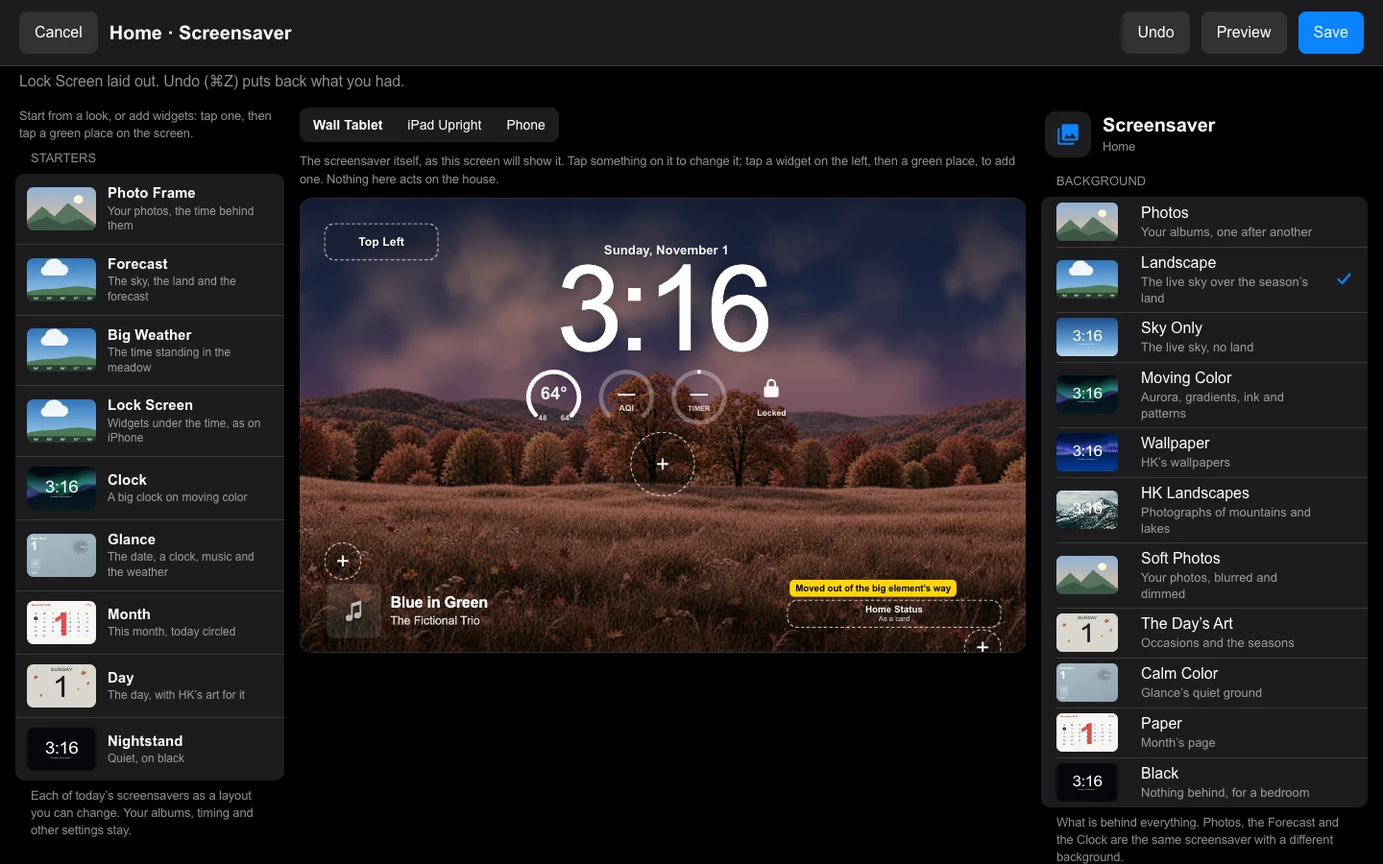
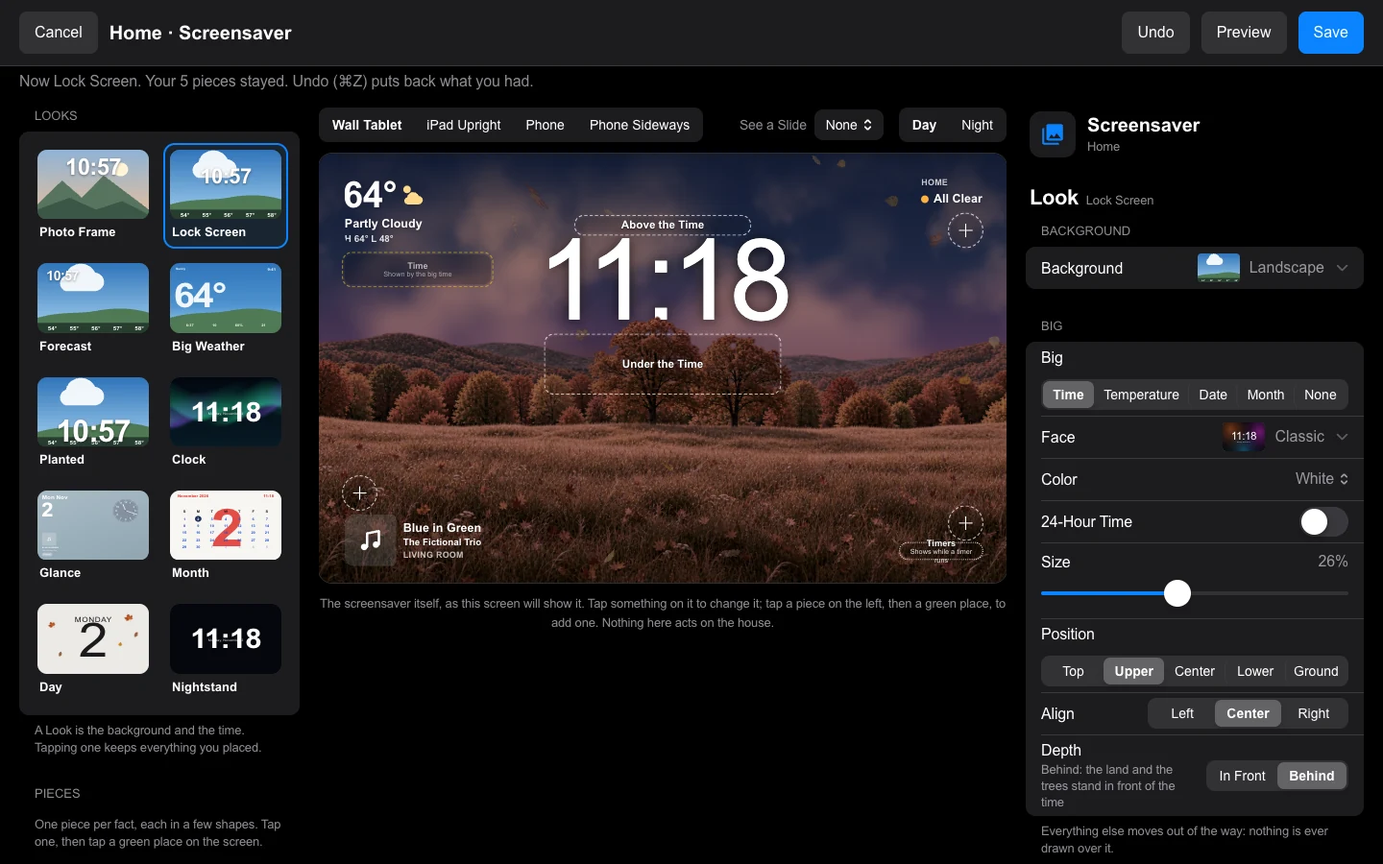
Phase 13, phase 6: every Look under every slide at four sizes in WebKit, every piece at least once; the guide's Screensaver page and its shots for the new editor; both changelogs -- and on the way: the Big forecast as a slide is Big Weather (over a laid-out clock too), its corner under Big Weather's

diff --git a/web/hk/modules/hk-saver.js b/web/hk/modules/hk-saver.js
@@ -1244,7 +1244,14 @@
     '.scn .scs{position:absolute;top:var(--m);display:flex;flex-direction:column;gap:var(--g)}',
     '.scn .scs.tl{left:var(--m);align-items:flex-start}.scn .scs.tr{right:var(--m);align-items:flex-end}',
     '.scn .scs > *{position:relative}',
+    // (Big Weather as a slide tells the weather and the time on its own top line, on its 7.3-unit margin: what the corner
+    // adds stands under them, on the same margin, where its own screen puts Home Status)
+    ':host([fcbig][fcslide]:not([pane])) .scn .scs{top:13.1vmin}',
+    ':host([fcbig][fcslide]:not([pane])) .scn .scs.tl{left:7.3vmin}:host([fcbig][fcslide]:not([pane])) .scn .scs.tr{right:7.3vmin}',
     ':host([scorner]) .info > *:not([muonly]){opacity:0!important;transition:opacity ' + CROSSFADE_MS + 'ms ease}',
+    // (with a layout the slide corner tells the time: the old corner clock kept for under the music never comes back
+    // over it -- the forecast over a clock drew both, 2026-11-02)
+    ':host([lay][scorner]) .info > [muonly]{display:none!important}',
     // THE LAYOUT (2026-11-01, the Screensaver editor's): its big element and widgets in .lay, under the corner cards;
     // the cards placed where its plan puts them (layoutDraw), whatever the Show's own rules said -- shown or not by
     // the plan alone ([lyhide]), and gone with the rest under a slide that covers them
@@ -2826,7 +2833,9 @@
   // clock (Behind the Clock: Forecast keeps the forecast's own details)
   var bigCtl = null, bigRun = 0, bigFor = '';
   // (with a layout too, where the forecast is a slide: layoutCfg made it Classic where the forecast is the background)
-  function bigWanted() { return !!(cfg && cfg.forecast_layout === 'big' && cfg.show !== 'clock' && !FACE_SHOWS[cfg.show]); }
+  // (a layout: the forecast as a slide over any Look takes the Slides section's Classic / Big -- layoutCfg made it
+  // Classic where the forecast is the background)
+  function bigWanted() { return !!(cfg && cfg.forecast_layout === 'big' && (cfg.layout || (cfg.show !== 'clock' && !FACE_SHOWS[cfg.show]))); }
   function bigWeather() {
     if (!root || !host) return;
     var want = bigWanted();
@@ -4172,6 +4181,7 @@
     if (!on || !root || !host || mode === 'forecast') return false;
     var gen = mode === 'clock';
     buildForecast();
+    bigWeather();
     if (exOutT) { clearTimeout(exOutT); exOutT = null; }
     host.removeAttribute('fcout');
     fcShowing = true;

diff --git a/web/hk/modules/hk-saverwidgets.js b/web/hk/modules/hk-saverwidgets.js
@@ -169,6 +169,10 @@
     '.hksw .cd.ti{padding:calc(var(--u) * .4)}',
     '.hksw .cd.ti .ct + div{margin-top:calc(var(--u) * .6)}',
     '.hksw .cd > div{overflow:hidden;text-overflow:ellipsis}',
+    // (a big number never needs an ellipsis: its row draws the round figures' overshoot below the baseline, which a
+    // line-height of 1 leaves outside the box -- the owner: "the temp is being clipped")
+    '.hksw .cd > .big,.hksw .cd > .cw{overflow:visible}',
+    '.hksw.k-card.b-none{overflow:visible}',
     '.hksw .cd .big{font-size:calc(var(--u) * 8.5);font-weight:700;line-height:1;letter-spacing:-.01em;margin-left:-.05em}',
     // (the Time's card: large figures, thin as the lock screen's time, and its date under them; at 150 % the old corner
     // clock's 150 px on an 800 px tablet -- the size a screen with no saved layout gets, hk-saver.js autoLayout)

diff --git a/tools/headless/saver_shows_check.py b/tools/headless/saver_shows_check.py
@@ -142,7 +142,44 @@ SHOWS = {
                              row=['vacuum.circular', 'package.circular', 'notify.circular', 'climate.circular', 'upnext.rectangular'],
                              tl=['climate.inline', 'doors.inline'], bl=['playin.inline'], bottom=[],
                              line=['who.inline'])}, 'lay-pieces'),
+    # ...wave C: one entity picked (the suggested default, none being picked here), Any Sensor on a picked entity, the photo's title
+    'saver-lay-glance-c': ({'show': 'photos', 'photo_titles': True, 'layout': _pieces({'kind': 'time', 'size': 22, 'pos': 'top'},
+                            line=['title.inline'], row=['alarm.circular', 'trash.circular', 'pollen.circular', 'travel.circular',
+                                                        'appliance.rectangular', 'sensor.circular?entity=lock.back_door'],
+                            tl=['price.inline', 'travel.inline'], tr=['leak.inline', 'sensor.inline?entity=lock.front_door'],
+                            bl=['appliance.inline', 'alarm.inline'], br=['leak.card'])}, 'lay-pieces'),
 }
+
+
+# EVERY LOOK, EVERY SLIDE, AT EVERY SIZE (phase 13, phase 6; the plan's "Done": saver_shows_check over every Look x slide x
+# three sizes, phones not skipped): the editor's own Looks (hk-saver-editor.js LOOKS, applyLook + lookLayout -- so what is
+# checked is what the owner picks), each with every slide on. One screen a Look steps through its slides with the editor's
+# See a Slide (hkSaver.previewSlide); a second has the Forecast's Big layout, for the Forecast, Big slide
+def look_shows():
+    import subprocess
+    jsc = Path('/System/Library/Frameworks/JavaScriptCore.framework/Versions/A/Helpers/jsc')
+    if not jsc.exists():
+        return {}
+    pre = ("var window = this; var HTMLElement = function () {}; var customElements = { get: function () { return null; }, define: function () {} };\n"
+           f"load({json.dumps(str(ROOT / 'web/hk/modules/hk-saverlayout.js'))});\n"
+           f"load({json.dumps(str(ROOT / 'web/hk/panels/hk-saver-editor.js'))});\n"
+           "var E = window.hkSaverEditor;\n"
+           "print(JSON.stringify(E.LOOKS.map(function (look) { var o = { show: 'photos', layout: E.lookLayout(look) }; E.applyLook(o, look, false); return [look.id, o]; })));\n")
+    with tempfile.NamedTemporaryFile('w', suffix='.js', delete=False) as f:
+        f.write(pre)
+    try:
+        looks = json.loads(subprocess.run([str(jsc), f.name], capture_output=True, text=True, check=True, timeout=30).stdout)
+    finally:
+        os.unlink(f.name)
+    out = {}
+    for lid, o in looks:
+        slides = dict(o, extra_music=True, weather_slide=True, energy_slide=True, extra_forecast=True)
+        out[f'saver-look-{lid}'] = (slides, 'look-slides')
+        out[f'saver-look-{lid}-fb'] = (dict(slides, forecast_layout='big'), 'look-fb')
+    return out
+
+
+SHOWS.update(look_shows())
 
 
 async def photos_for(server, cookie, screens):
@@ -185,7 +222,8 @@ async def main():
     with tempfile.TemporaryDirectory() as td:
         app, cookie = await gallery.build(Path(td), real_model=True)
         async with TestServer(app) as server:
-            await photos_for(server, cookie, ('saver-timebehind', 'saver-clockphotos', 'saver-clocksoft', 'saver-lay-slides', 'saver-lay-tb'))
+            await photos_for(server, cookie, ('saver-timebehind', 'saver-clockphotos', 'saver-clocksoft', 'saver-lay-slides', 'saver-lay-tb')
+                             + tuple(k for k in SHOWS if k.startswith('saver-look-photo')))
             if args.shots:
                 args.shots.mkdir(parents=True, exist_ok=True)
             proc = await asyncio.create_subprocess_exec(args.node, str(Path(__file__).with_suffix('.cjs')), stdin=asyncio.subprocess.PIPE,

diff --git a/tools/headless/gallery.py b/tools/headless/gallery.py
@@ -292,6 +292,10 @@ await pause(12000);"""
 SAVER_EDITOR_TIME = SAVER_EDITOR + """
 ed.shadowRoot.querySelector('.ov .big').click();
 await pause(2500);"""
+# ...and a piece tapped (phase 13): its page, its shapes drawn, its Size, Backdrop, Color and Show
+SAVER_EDITOR_PIECE = SAVER_EDITOR + """
+[...ed.shadowRoot.querySelectorAll('.ov .w')].find((w) => /weather|Weather/.test(w.getAttribute('aria-label') || '')).click();
+await pause(2500);"""
 
 # name -> (path, viewport, signed in, script to run before the shot)
 # The path is one of Mantel's own pages: a screen (SCREEN's, or GRID_SCREEN's, which lays Home out as a Home Grid),
@@ -319,6 +323,7 @@ SHOTS = {
                              script(GRID_EDITOR + GRID_PREVIEW + GRID_BACKGROUND)),
     "screensaver-editor": (f"/settings#/screens/{SCREEN}/screensaver/editor", DESKTOP, True, script(SAVER_EDITOR)),
     "screensaver-editor-time": (f"/settings#/screens/{SCREEN}/screensaver/editor", DESKTOP, True, script(SAVER_EDITOR_TIME)),
+    "screensaver-editor-piece": (f"/settings#/screens/{SCREEN}/screensaver/editor", DESKTOP, True, script(SAVER_EDITOR_PIECE)),
     "settings-me": ("/settings#/mantel/me", DESKTOP, True, None),
     "settings-people": ("/settings#/mantel/people", DESKTOP, True, None),
     "settings-wall-tablet": ("/settings#/house/tablets/kitchen", DESKTOP, True, SCROLL_TO_SETUP),

diff --git a/tests/test_hk_core_saver_layout.py b/tests/test_hk_core_saver_layout.py
@@ -251,3 +251,14 @@ def test_the_editors_looks_and_backgrounds(tmp_path):
     planted = {t["id"]: t for t in out["taps"]}["planted"]
     assert planted["face"] == "planted" and planted["show"] == "forecast"
     assert {t["id"]: t for t in out["taps"]}["bigweather"]["big"]["kind"] == "temp"
+
+
+def test_every_piece_is_in_the_webkit_check():
+    """The plan's rule 7 (docs/phase13/SCREENSAVER-UNIFIED.md): every piece appears in saver_shows_check at least once --
+    in a layout of its own screens, or a Look's (hk-saver-editor.js LOOKS), or as a first layout's widget."""
+    import re
+    check = (ROOT / "tools/headless/saver_shows_check.py").read_text()
+    src = check + (ROOT / "web/hk/panels/hk-saver-editor.js").read_text()
+    seen = set(re.findall(r"'([a-z]+)\.(?:inline|circular|rectangular|card|band)", src))
+    seen |= {p for v1, (p, _, _) in SL.V1.items() if re.search(r"'%s'" % v1, check)}
+    assert not set(SL.PIECES) - seen, sorted(set(SL.PIECES) - seen)

diff --git a/docs/guide/Screensaver.md b/docs/guide/Screensaver.md
@@ -4,62 +4,58 @@ The screensaver on a wall tablet is HK Frontend's, and its photos, timing and th
 
 ## Edit Screensaver
 
-![The Screensaver editor: starters on the left, the screensaver in the middle, its settings on the right](../images/screensaver-editor.webp)
+![The Screensaver editor: Looks and pieces on the left, the screensaver in the middle, Look, Info, Slides and Timing on the right](../images/screensaver-editor.webp)
 
-**Edit Screensaver** lays the screensaver out on the screen itself, as the [Home Grid](Home-Grid.md) editor does for the Home page. Owners and Admins can use it, on a computer or an iPad. The editor needs a wide window for its three panes; on a narrow one it says so and offers **Open Anyway**.
+**Edit Screensaver** lays the screensaver out on the screen itself, as the [Home Grid](Home-Grid.md) editor does for the Home page. Owners and Admins can use it, on a computer or an iPad. The editor needs a wide window for its three panes; on a narrow one it says so and offers **Open Anyway**. The **Clock Style** pages in Settings open it too.
 
-Open **Mantel Settings → Screens → your screen → Screensaver Options → Edit Screensaver**. For every screen at once, use **All Screens → Screensaver → Edit Screensaver**. A screen that uses the settings for All Screens gets a screensaver of its own when you save, starting from All Screens'.
+The top bar has **Cancel**, **Undo**, **Preview** and **Save**. On the left are the **Looks** and the **Pieces**. In the middle is the screensaver itself, drawn by the same code the tablet draws with. On the right are the settings for whatever you have tapped. Nothing you do here acts on the house.
 
-The top bar has **Cancel**, **Undo**, **Preview** and **Save**. On the left are the **Starters** and the widgets. In the middle is the screensaver itself, drawn the way the tablet will draw it. On the right are the settings for whatever you have tapped. Nothing you do here acts on the house.
+A screensaver is a **Look** (a background and the time) and the **Info** around it: the pieces you place. Every screen draws this way, including one that has never saved anything: its corners are pieces too.
 
-### Start from a starter
+### Looks
 
-A screensaver is a background, one big element, and widgets around it. The **Starters** are today's screensavers, each as a layout you can change: **Photo Frame**, **Forecast**, **Big Weather**, **Lock Screen**, **Clock**, **Glance**, **Month**, **Day** and **Nightstand**. Tap one and it sets the background and lays everything out. **Undo** puts back what you had. Your albums, timing and other settings stay as they were.
+The Looks are **Photo Frame**, **Lock Screen**, **Forecast**, **Big Weather**, **Planted**, **Clock**, **Glance**, **Month**, **Day** and **Nightstand**, each shown as its picture. Tapping a Look changes the Look only: the background, the face, and how large the time is and where it stands. What you placed stays. A piece the new Look has no place for (Month has no row and no line) waits: it stays in your layout, the screen leaves it out, and the Info list marks it "Waits: Month has no row". Tap the Look you are on to open its page; **Start Over from** that Look, at its foot, puts back the Look's own pieces in their places.
 
-### The background
+### The four sections
 
-With nothing tapped, the right side shows the **Screensaver** settings. **Background** is what is behind everything: **Photos**, **Landscape** (the live sky over the season's land), **Sky Only**, **Moving Color**, **Wallpaper**, **HK Landscapes**, **Soft Photos**, **The Day's Art**, **Calm Color**, **Paper** or **Black**. Each has the few options that go with it, such as a Moving Color pattern or how much to darken photos. Under **Slides** are the screens that come between now and then: the forecast between photos, music full screen, Home Energy and Weather. While a slide shows, the layout steps aside and the slide has the screensaver's usual corners: the time, the date and the weather at the top left and Home Status at the top right (Big Weather and Home Energy tell the time themselves). The layout comes back with the next photo.
+With nothing tapped, the right side has four sections, always in this order.
 
-### The big element
+- **Look:** the **Background** (**Photos**, **Landscape**, **Sky Only**, **Moving Color**, **Wallpaper**, **HK Landscapes**, **Soft Photos**, **The Day's Art**, **Calm Color**, **Paper** or **Black**) and its own options, such as how much to darken photos or a Moving Color pattern and its **Motion**. Then the **Big** element (**Time**, **Temperature**, **Date**, **Month** or **None**), its **Face**, **Color**, **24-Hour Time**, **Size**, **Position** and **Align**. **Depth** is **In Front** or **Behind**: on photos the subject stands in front of the time, as on the iPhone's Lock Screen, with any face; on the Landscape the hills do. Where the background can't put anything in front, Depth says why instead. The **Planted** face (solid figures standing in the meadow) is on the Landscape. Over busy backgrounds, **Legibility** adds a soft shadow and an outline.
+- **Info:** what is placed, a list with each piece's picture, shape and place; tap one to open it. **Ink** is **Auto**, **White** or **Black**: one ink for every piece on the screen, never some white and some black; Auto picks it from what is behind them. **Color Accents** adds a little color where it means something: rings, glyphs and status dots. **The Row** has one **Size** for every piece in it (60 to 200 %) and where it goes: **Under the Big Element**, or **Along the Bottom**, which keeps the middle of a photo, where faces usually are, clear. **Upright Screens** is **Same as Sideways** or **Its Own**.
+- **Slides:** the screens that come now and then over the screensaver, each on or off: the forecast among the photos (**Classic** or **Big**), **Music Full Screen**, **Weather** and **Home Energy**, and **How Often**. Each says what its corner adds (the time, the date and Home Status, in the Look's own face and color) and has a **See It** button.
+- **Timing:** **Starts After, Night Mode and More** opens the Screensaver page.
 
-Tap the time, or whatever is large on the screen. **Shows** is **Time**, **Temperature**, **Date**, **Month** or **None**.
+At the foot, **Reset…** puts the screensaver back to how it looked before you opened the editor.
 
-![The big element tapped: its Face, Color, Size and Position on the right](../images/screensaver-editor-time.webp)
+### Pieces
 
-- **The Time** has a **Face**, its **Color**, and **24-Hour Time**. The **Today** face also draws the weather and, while something plays, the song under the time; **What's Playing** turns that line off (also under **Clock Style** in Settings).
-- **Size**, **Position** and **Align** say how large it is and where it stands.
-- **Depth** is **In Front**, or, where the background allows it, **Behind the Subject** on photos (the photo's subject stands in front of the time, as on the iPhone's Lock Screen), **Behind the Land** or **Planted** on the Landscape (solid figures standing in the meadow).
-- Over photos, **Legibility** adds a soft shadow and an outline so the time reads on a busy picture.
+The pieces are listed by group: **Time and Calendar**, **Weather and Sky**, **Home**, **People and Travel**, **Energy**, **Media and Photos**, **Cameras** and **Any Sensor**, with a search field. Each shows its picture and its shapes. Some say when they show ("Shows while music plays"), and a few are **Off Until Placed**.
 
-Everything the big element reaches moves out of its way, and the editor says so on the screen ("Moved out of the big element's way"). Nothing is drawn over it, and a large time no longer runs into Home Status or the weather.
+- **Add:** drag a piece onto a green place with the mouse, as in the Home Grid editor, or tap it and then a green place, which works the same on an iPad. It goes in the first of its shapes that place takes. Drag one on the screen to another place to move it.
+- **Shapes:** **Circular** and **Rectangular** pieces go in the row, four units to a line and two lines at most (a circular piece is one unit, a rectangular two), as on the iPhone; **Inline** pieces are a line of words above the big element or in a top corner; **Cards** go in the corners; **Along the Bottom** are bands such as the forecast's days.
 
-### Widgets
+![A piece tapped: its shapes drawn, its Size and Style, its options and Show](../images/screensaver-editor-piece.webp)
 
-Widgets come in kinds, listed on the left: **Circular** and **Rectangular** ones go in the row, four units to a line and two lines at most (a circular widget is one unit, a rectangular two), as on the iPhone; **Inline** ones are a line of words above the big element or in a top corner; **Cards** (Now Playing, Timers, Weather, Home Status, Clock) go in the corners; and **Along the Bottom** are the forecast details and the readings.
+Tap a piece on the screen to open its page:
 
-The row sits **Under the Big Element**, or **Along the Bottom** of the screen, which keeps the middle of a photo, where faces usually are, clear. Tap the row, or a widget in it, and choose under **The Row**. Along the bottom, the bottom corners stand beside the row, or above it where they would meet.
+- **Shape:** its shapes, each drawn. A shape its place can't take moves it to the nearest place that can, and the editor says so.
+- **Size and Style:** **Size** (60 to 200 %; in the row, **Its Own Size** off follows the row's size), **Backdrop** (**None**, **Glass** or **Tinted**) and **Color** (**Auto**, in the screen's ink, or **Accent**).
+- **Options:** what it shows, such as which city's time or which sensor. A piece that reads an entity suggests one ("Use the Suggestion").
+- **Show:** **Always**, or **When…** an entity **is**, **is not**, **is above** or **is below** a value: a mailbox piece that shows only when the mail has come, or the house battery only while it charges. Until then the others close up as if it weren't there.
+- **Place:** **Where**, the Move buttons, and **Remove**. Delete does the same from a keyboard.
 
-- **Add:** drag a widget from the left onto a green place with the mouse, as in the Home Grid editor; drag one on the screen to another place to move it. Or tap a widget, then tap a green place, which works the same on an iPad. Or tap the round **+** that follows the last widget in the row, or sits under or over a corner's stack: it lists what fits there, and it stays for as long as there is room.
-- **Change:** tap a widget or a card on the screen. Every one has the same **Look**: its **Size** (60 to 160 % of its usual size; the others move to make room), its **Backdrop** (**None**, **Glass** or **Tinted**) and its **Color** (**Auto**, taken from what is behind it as the lock screen does, **White** or **Accent**).
-- **Move:** pick another place under **Where**, or use the Move buttons to change its order.
-- **Remove:** the red **Remove** button at the foot of its settings. Delete does the same from a keyboard.
+A piece with nothing to show right now, such as Now Playing with no music, keeps its place in the editor, drawn dotted with its name and when it shows. A piece whose fact is already on the screen, such as the time when the face shows it, is drawn faded with what shows it, and the screen leaves it out.
 
-Tap an empty place, or its **+**, without a widget picked, to see what fits there. A card with nothing to show right now, such as Now Playing with no music or Timers with none running, keeps its place: the editor draws it dotted, with its name and when it shows.
+Things line up by what you see, not by their boxes: the top of the time is level with the first words in the top corners, a card with no backdrop puts its art on the margin, and the bottom corners' last lines sit on one baseline.
 
-Things line up by what you see, not by their boxes: the top of the time is level with the first words in the top corners, and the bottom corners' last lines sit on one baseline.
+### Above the screen
 
-### Three shapes and Preview
+**Wall Tablet**, **iPad Upright**, **Phone** and the phone on its side show the same screensaver at each shape, so you can check that it fits. Pieces that would meet something move out of the way or are left out, and the editor says which.
 
-**Wall Tablet**, **iPad Upright** and **Phone** above the screen show the same layout at each shape, so you can check that it fits. Widgets that would meet something move out of the way or are left out, and the editor says which.
+**See a Slide** shows a slide (Music, the forecast, Weather, Home Energy) over the screen with its corner, and **Day** / **Night** shows Night Mode. Both are for the preview only: they are off each time the editor opens and change nothing that is saved. **Preview** hides the green places and shows the screensaver alone; **Edit** brings them back.
 
-**Preview** hides the green places and shows the screensaver alone; **Edit** brings them back.
+### Save and Undo
 
-The screen in the editor leaves out the slides (music full screen, the forecast, Weather, Home Energy) and the house's notifications, so the layout stays in view. **Slides & Notifications**, beside the shapes, turns them on for the preview; it is off each time the editor opens and changes nothing that is saved.
+**Save** stores the screensaver for the screen. Everything stays a draft until then, and **Cancel** asks before it throws a draft away. **Undo** (⌘Z or Ctrl+Z) takes back the last change, one at a time.
 
-### Save, Undo and going back
-
-**Save** stores the layout for the screen. Everything stays a draft until then, and **Cancel** asks before it throws a draft away. **Undo** (⌘Z or Ctrl+Z) takes back the last change, one at a time.
-
-A screen that has never saved a layout is drawn exactly as before. **Back to Today's Look**, at the foot of the Screensaver settings, rebuilds a layout from the screen's current settings.
-
-The editor is the only place to change what the screensaver shows and how it looks: the background, the time and its face, the widgets and the corners, the legibility over photos, and which slides come between the photos. **Screensaver Options** keeps what cannot be laid out on the screen: where the photos come from (a folder, or Mantel Photos), how they show (one at a time or a mosaic, their order, **Each Photo For**, **Slow Zoom**, and how portrait and landscape photos fit), the wallpaper when the background is Wallpaper, the slides and how often they come (**Now and Then**), how the forecast looks where it comes in among the photos or in their place (**The Forecast**: **Classic** or **Big**, Big Weather), **Night Mode**, the **Side Pane** (each screen's own, even when the rest follows All Screens; All Screens' page names the screens that have their own), **Starts After** and the other timing, and the entities for automations. The editor's **Photos, Slides and Timing** row opens it (**Choose the Wallpaper, Photos and More**, when the background is Wallpaper). A screen with a saved layout can go back to its old look with **Remove the Layout…** there.
+The editor is the only place to change what the screensaver shows and how it looks: the background, the time and its face, the pieces, the legibility over photos, and which slides come now and then, and how often. **Screensaver Options** keeps what cannot be laid out on the screen: where the photos come from (a folder, or Mantel Photos), how they show (one at a time or a mosaic, their order, **Each Photo For**, **Slow Zoom**, and how portrait and landscape photos fit), the wallpaper when the background is Wallpaper, **Night Mode**, the **Side Pane** (each screen's own, even when the rest follows All Screens; All Screens' page names the screens that have their own), **Starts After** and the other timing, and the entities for automations. The editor's **Starts After, Night Mode and More** row opens it (**Choose the Wallpaper**, when the background is Wallpaper). A screen with a saved layout can go back to its old look with **Remove the Layout…** there.

diff --git a/CHANGELOG.md b/CHANGELOG.md
@@ -5,12 +5,21 @@ All notable changes to Mantel are listed here. Versions follow [semantic version
 ## Unreleased
 
 **Changed**
+- Screensaver: **one screensaver** (phase 13). The editor's starters are **Looks** (Photo Frame, Lock Screen, Forecast, Big Weather, Planted, Clock, Glance, Month, Day, Nightstand): tapping one changes the background and the time and keeps everything you placed; **Start Over from This Look** replaces it all. The right side is always **Look**, **Info**, **Slides** and **Timing**, with no rows that do nothing. Widgets and cards are **pieces**, one per fact, each in a few shapes (Inline, Circular, Rectangular, Card, Band), drawn the same way with the same Size (60 to 200%), Backdrop and Color. The row has one size. One **Ink** for the whole screen (Auto picks black or white from the background, never some of each) and **Color Accents**. Any piece can **Show When** an entity is, is not, is above or is below a value (the mailbox has mail). A fact is drawn once: a face or a slide that shows it hides the piece, and the editor says so.
+- Screensaver: **a slide corner** over every slide, adding only the time (in the Look's face and color), the date, the weather and Home Status the slide lacks; the Weather and Home Energy slides no longer draw their own. Slides work over every background. The music slide on a phone or an upright iPad is laid out as an iPhone's Now Playing.
+- Screensaver: **the time behind** the photo's subject works with any face and any face option; behind the Landscape's land too, with the time in front where the land would hide most of it. **Planted** is a face on the Landscape. Darken is the photos'. Night Mode, the Day's Art and Soft Photos work with a laid-out screensaver.
+- Screensaver: a screen with no saved layout draws the same way, its corners as pieces (Big Weather and Month keep their own faces). Music Full Screen is one choice in the editor and in Settings. The Clock Style pages open the editor.
 - Doorbell: talking is push-to-talk done properly. The doorbell's talk session opens with the sheet, so a press is live at once and the first word isn't lost; the visitor stays heard, lowered, while you talk; the button says Connecting, Talking, who else is talking, Can't Reach the Doorbell or Needs HTTPS (it used to vanish on plain http); and only one person talks at a time, everyone else's button saying who. Needs Mantel Link 0.1.11 for the session to stay open between holds.
 
 **Added**
+- Screensaver: **35 more pieces**, a glance catalog like an iPhone's lock screen: Countdown, World Clock, the rest of today's events, Rain Soon, Weather Alert, UV, Wind and Gusts, Pressure, Feels Like, Moon, Sun, Security, Doors and Windows, Garage, Climate, Lights On, Vacuum, Notifications, Package, Who's Home, Grid, EV, Up Next, Playing In, On This Day, Camera, Last Ring, Phone Alarm, Trash Day, Pollen, Appliances, Leak and Smoke, Travel Time, Price and Any Sensor. Pieces that show people or cameras are off until you place them.
+- Photos: the day a photo was taken is kept (for On This Day), read from the picture at upload, or from a camera-style file name for the photos already there.
 - Docker and the LXC: **UniFi Protect** under Mantel Settings → Connections. Mantel talks to the console itself with an API key (a local user and password as an Advanced option, used by nothing yet), checks the address, the key and the Protect version on Connect, pins the console's certificate and stops on a changed one until an Owner trusts it. Pick the console's cameras by their stills; a camera Home Assistant has too shows once, as Home Assistant's, with **Video From** Direct or Home Assistant. Each camera's own detections (the ring, person, vehicle, animal, package, or motion) become the same notifications, doorbell pop-up and snapshots as Home Assistant's sensors give, never twice; **Notify For** picks them, and **Turn On in Protect** switches on a detection that is off. Mantel talks to the doorbell's speaker itself. Under the Home Assistant App nothing changes: cameras come from Home Assistant's UniFi Protect integration.
 - Mantel Settings → **Cameras** (Docker and the LXC): **Add Camera** plays an RTSP camera without Home Assistant in the middle. Type its name, area, RTSP address (and an optional sub-stream) and its user name and password, press **Test** to see a picture from it (or why not: it can't be reached, the login was refused, the video isn't H.264), then add it. The login is sealed and never shown again; leave a box blank to keep it. **Notify For** links the camera's Motion, Person and Doorbell to any Home Assistant binary sensor or event (Frigate's, say), so a notification on one carries the camera's picture and a Doorbell link shows the doorbell pop-up. Owner or Admin only, with a fresh sign-in away from home. Under the Home Assistant App the page says cameras come from Home Assistant and links to its Generic Camera integration.
 - Mantel Settings → About → **Secure Connection**: whether this screen is a secure page (the microphone, and so talking at the door, needs HTTPS), how Mantel is reached (built-in HTTPS, behind your own proxy, Home Assistant's sidebar or plain HTTP), and the address in use against the public one. An Owner or Admin also sees each wall tablet whose page isn't secure, with the fix (open Mantel by its `https://` name in Fully Kiosk's Start URL). Wall tablets' pages now tell Mantel their `isSecureContext` and address with their health reports. The camera pop-ups in HK Settings note that talking at the door needs HTTPS while a screen isn't secure. On Docker and the LXC before Mantel has a name, the page points to `mantel-setup` and Set Up Mantel's Address and HTTPS step instead of explaining it again.
+
+**Fixed**
+- Screensaver: the music slide's buttons (skip, browse, speakers) no longer close the screensaver.
 
 ## 0.1.113 - 2026-11-02
 

diff --git a/hosts/ha/custom_components/hk_frontend/tools/publish/root/CHANGELOG.md b/hosts/ha/custom_components/hk_frontend/tools/publish/root/CHANGELOG.md
@@ -5,6 +5,11 @@ HK Frontend's releases, newest first. A GitHub release's notes are its section h
 
 ## Unreleased
 
+- **Screensaver, one screensaver:** the editor's starters are **Looks** that keep what you placed (**Start Over from This Look** replaces it all); the right side is always **Look**, **Info**, **Slides** and **Timing**. Widgets and cards are **pieces** in a few shapes (Inline, Circular, Rectangular, Card, Band), Size 60 to 200%, one size for the row, one **Ink** for the screen (Auto: black or white from the background) and **Color Accents**; any piece can **Show When** an entity is, is not, is above or is below a value. A fact is drawn once.
+- **Screensaver, 35 more pieces:** Countdown, World Clock, Rain Soon, Weather Alert, UV, Wind, Pressure, Feels Like, Moon, Sun, Security, Doors and Windows, Garage, Climate, Lights On, Vacuum, Notifications, Package, Who's Home, Grid, EV, Up Next, Playing In, On This Day, Camera, Last Ring, Phone Alarm, Trash Day, Pollen, Appliances, Leak and Smoke, Travel Time, Price and Any Sensor (people and cameras off until placed).
+- **Screensaver, slides:** one slide corner adds only the time, date, weather and Home Status a slide lacks; slides over every background; the music slide laid out for a phone and an upright iPad.
+- **Screensaver, the time:** behind the photo's subject with any face, behind the land where it leaves the time readable; **Planted** a face; Night Mode, the Day's Art and Soft Photos with a layout; a screen with no saved layout draws through the same path (Big Weather and Month keep their own faces).
+- **Screensaver:** the Day face's name sits on its numeral; Glance's weather stands under its clock, on its edge.
 - **Doorbell, talking:** the talk session opens with the sheet, so a press is live at once; the visitor stays heard, lowered, while you talk; the button says Connecting, Talking, who else is talking, Can't Reach the Doorbell or Needs HTTPS (on plain http it used to vanish); one person talks at a time, and everyone else's button says who.
 - **HK Settings, camera pop-ups:** a note, "Talking at the door needs HTTPS", while this screen (or, in Mantel, any wall tablet) isn't a secure page, since a browser gives the microphone only to one. The host can say where to look (`notes.secure`).
 

diff --git a/docs/phase13/SCREENSAVER-UNIFIED.md b/docs/phase13/SCREENSAVER-UNIFIED.md
@@ -1,7 +1,8 @@
 # Phase 13: one screensaver (plan, 2026-11-02)
 
-**Status: the mock-up approved by the owner on 2026-11-02 ("Ok this all looks good"), with decisions 9 to 11; being
-built.** The
+**Status: built (2026-11-02), every phase on main; not released -- the owner's OK on the phase 4 before / after
+comes first, and 0.1.114 waits for the other sessions.** The mock-up was approved on 2026-11-02 ("Ok this all looks
+good"), with decisions 9 to 11. The
 mock-up is a private claude.ai artifact: https://claude.ai/artifact/WGMhLYgvrFpBEYsLB17hEN (interactive). It follows the Screensaver editor
 (`docs/phase12/SCREENSAVER-EDITOR.md`), which is on the house in 0.1.113 / 1.35.0.
 
@@ -454,3 +455,10 @@ take its new shape still moves to the nearest zone that can.
   entity, Show When), See a Slide and Day / Night, the phone on its side, one Reset; the Clock Style pages open the
   editor; Settings' Music is Music Full Screen (`music_first`). Glance, Month and Day's Looks leave the big element to
   their faces' own words. A WebKit check of the editor (`saver_editor_check`) in `ci.py full`.
+- 2026-11-02, phase 6: the checks and the guide. `saver_shows_check` runs every Look under every slide (and the Big
+  forecast) at the wall tablet, the iPad upright, the phone and the phone on its side, every piece at least once
+  (`test_every_piece_is_in_the_webkit_check`); the guide's Screensaver page and its three shots are the new editor.
+  Fixed on the way: the Big forecast as a slide drew the Classic one (Big Weather was mounted only for the forecast
+  as the background, and never over a laid-out clock); its corner now stands under Big Weather's own top line; the
+  old corner clock came back beside the slide corner under the forecast over a clock; a card's big number lost its
+  round figures' overshoot (the owner: "the temp is being clipped"). No sheet changed, so no `sheet_review.py` run.
